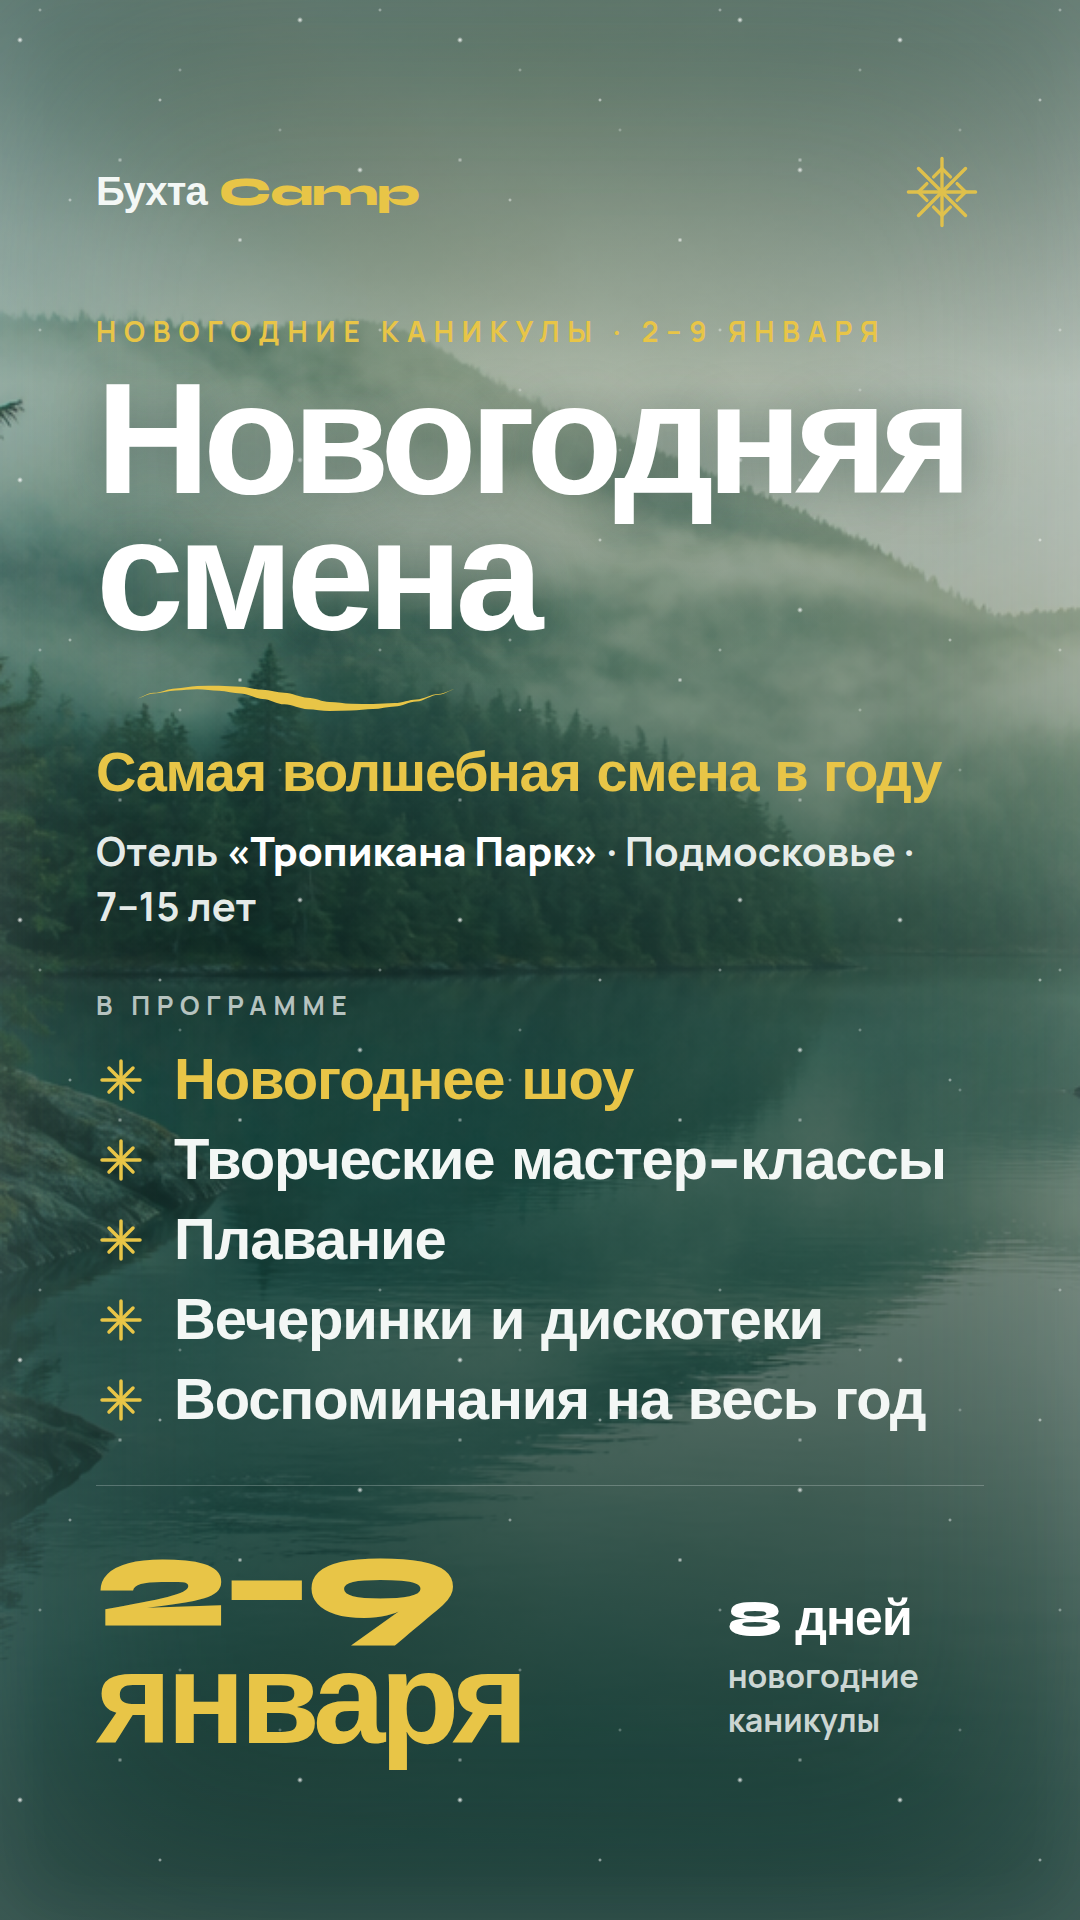
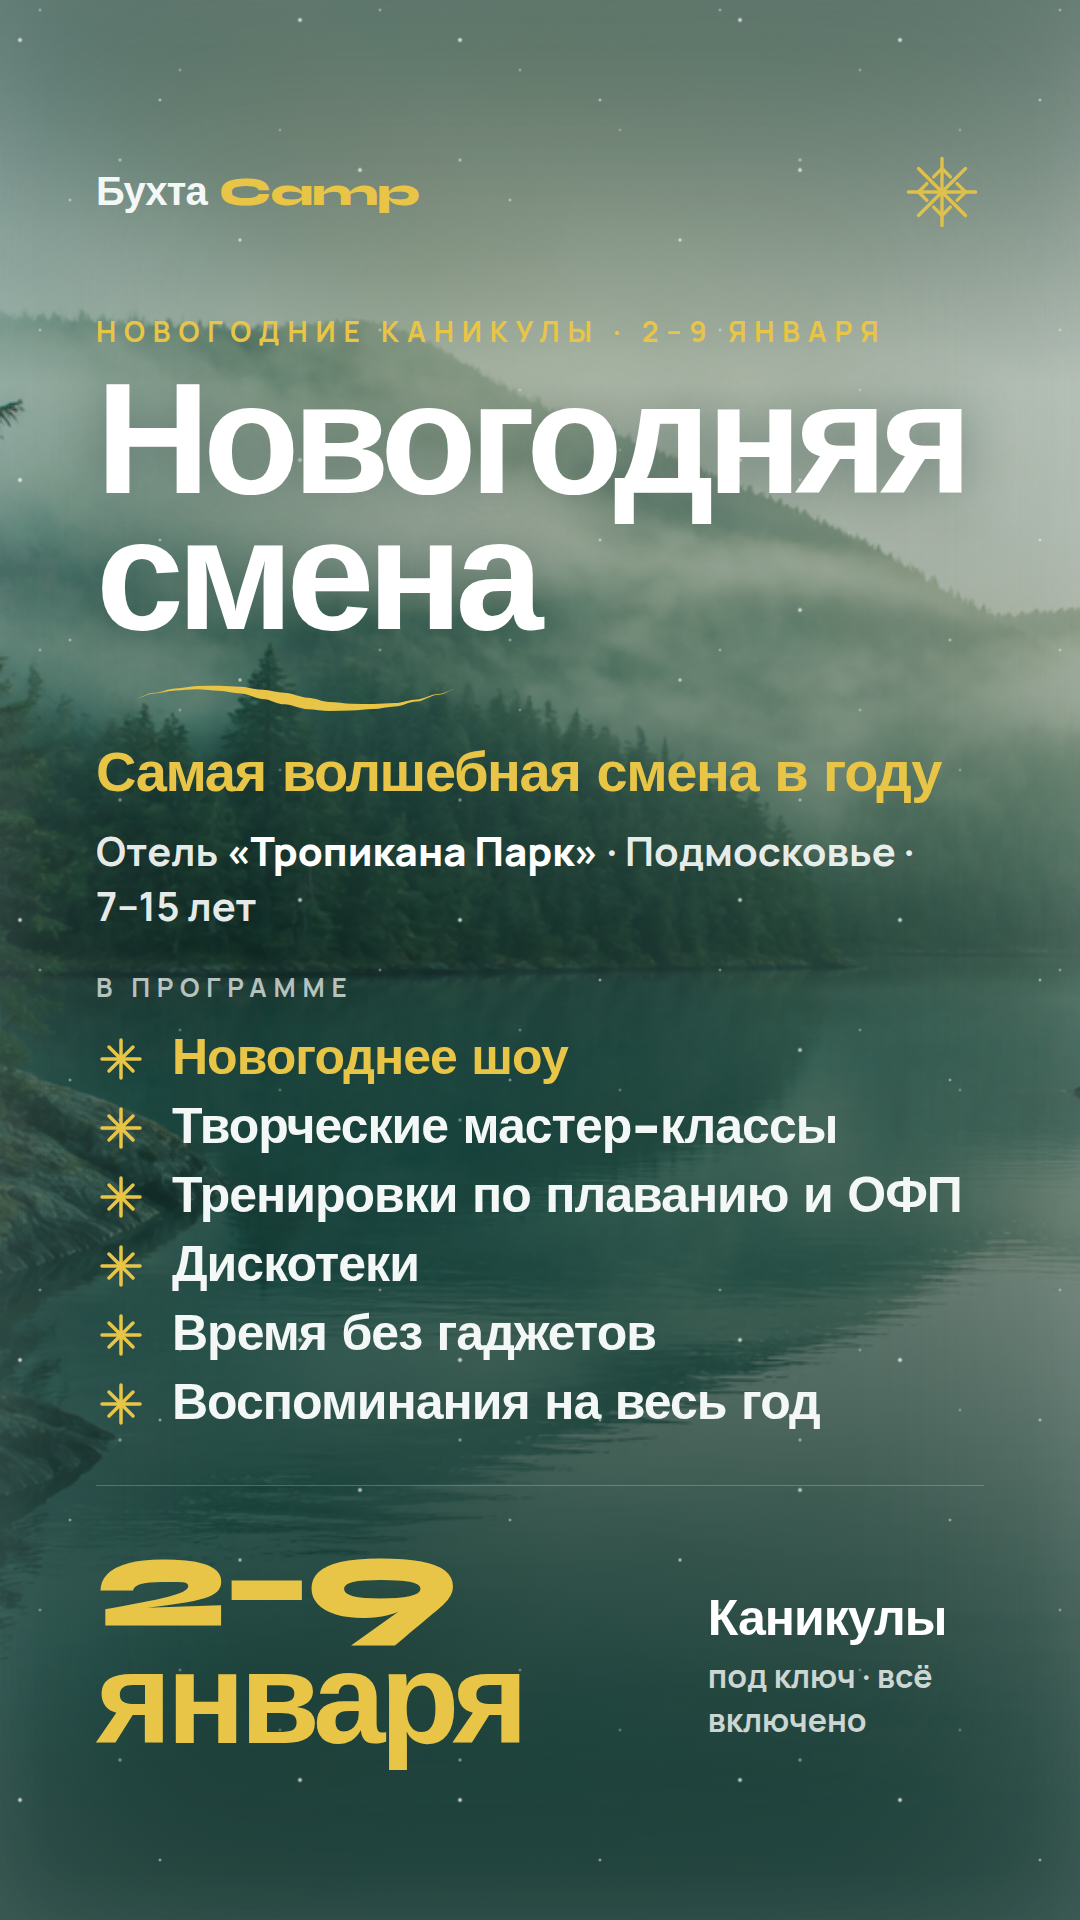
NY afisha: 'каникулы под ключ', swim+OFP training, discos + no-gadgets time

Changed region(s): [[0.0917, 0.5, 0.8861, 0.75], [0.6417, 0.8125, 0.8861, 0.9062]]

diff --git a/assets/instagram/html/afisha-ny-post.html b/assets/instagram/html/afisha-ny-post.html
@@ -135,15 +135,15 @@
       color: rgba(243,247,245,0.72);
       margin-bottom: 22px;
     }
-    .program { display: flex; flex-direction: column; gap: 16px; }
+    .program { display: flex; flex-direction: column; gap: 15px; }
     .pitem {
-      display: flex; align-items: center; gap: 22px;
+      display: flex; align-items: center; gap: 20px;
       font-family: Syne, sans-serif;
       font-weight: 800;
-      font-size: 46px;
+      font-size: 40px;
       letter-spacing: -0.02em;
       color: #f3f7f5;
-      line-height: 1;
+      line-height: 1.02;
     }
     .pitem.star { color: #e8c547; }
     .bullet { width: 40px; height: 40px; flex: none; color: #e8c547; }
@@ -229,11 +229,15 @@
         </div>
         <div class="pitem">
           <span class="bullet"><svg viewBox="0 0 100 100" fill="none"><g stroke="currentColor" stroke-width="7" stroke-linecap="round"><path d="M50 12 V88 M12 50 H88"/><path d="M26 26 L74 74 M74 26 L26 74"/></g></svg></span>
-          Плавание
+          Тренировки по плаванию и ОФП
         </div>
         <div class="pitem">
           <span class="bullet"><svg viewBox="0 0 100 100" fill="none"><g stroke="currentColor" stroke-width="7" stroke-linecap="round"><path d="M50 12 V88 M12 50 H88"/><path d="M26 26 L74 74 M74 26 L26 74"/></g></svg></span>
-          Вечеринки и дискотеки
+          Дискотеки
+        </div>
+        <div class="pitem">
+          <span class="bullet"><svg viewBox="0 0 100 100" fill="none"><g stroke="currentColor" stroke-width="7" stroke-linecap="round"><path d="M50 12 V88 M12 50 H88"/><path d="M26 26 L74 74 M74 26 L26 74"/></g></svg></span>
+          Время без гаджетов
         </div>
         <div class="pitem">
           <span class="bullet"><svg viewBox="0 0 100 100" fill="none"><g stroke="currentColor" stroke-width="7" stroke-linecap="round"><path d="M50 12 V88 M12 50 H88"/><path d="M26 26 L74 74 M74 26 L26 74"/></g></svg></span>
@@ -244,8 +248,8 @@
       <div class="dateblock">
         <div class="date-big">2–9 января</div>
         <div class="date-meta">
-          <div class="d1">8 дней</div>
-          <div class="d2">новогодние каникулы</div>
+          <div class="d1">Каникулы</div>
+          <div class="d2">под ключ · всё включено</div>
         </div>
       </div>
     </div>

diff --git a/assets/instagram/html/afisha-ny-story.html b/assets/instagram/html/afisha-ny-story.html
@@ -133,15 +133,15 @@
       color: rgba(243,247,245,0.72);
       margin-bottom: 28px;
     }
-    .program { display: flex; flex-direction: column; gap: 22px; }
+    .program { display: flex; flex-direction: column; gap: 18px; }
     .pitem {
-      display: flex; align-items: center; gap: 28px;
+      display: flex; align-items: center; gap: 26px;
       font-family: Syne, sans-serif;
       font-weight: 800;
-      font-size: 58px;
+      font-size: 50px;
       letter-spacing: -0.02em;
       color: #f3f7f5;
-      line-height: 1;
+      line-height: 1.02;
     }
     .pitem.star { color: #e8c547; }
     .bullet { width: 50px; height: 50px; flex: none; color: #e8c547; }
@@ -227,11 +227,15 @@
         </div>
         <div class="pitem">
           <span class="bullet"><svg viewBox="0 0 100 100" fill="none"><g stroke="currentColor" stroke-width="7" stroke-linecap="round"><path d="M50 12 V88 M12 50 H88"/><path d="M26 26 L74 74 M74 26 L26 74"/></g></svg></span>
-          Плавание
+          Тренировки по плаванию и ОФП
         </div>
         <div class="pitem">
           <span class="bullet"><svg viewBox="0 0 100 100" fill="none"><g stroke="currentColor" stroke-width="7" stroke-linecap="round"><path d="M50 12 V88 M12 50 H88"/><path d="M26 26 L74 74 M74 26 L26 74"/></g></svg></span>
-          Вечеринки и дискотеки
+          Дискотеки
+        </div>
+        <div class="pitem">
+          <span class="bullet"><svg viewBox="0 0 100 100" fill="none"><g stroke="currentColor" stroke-width="7" stroke-linecap="round"><path d="M50 12 V88 M12 50 H88"/><path d="M26 26 L74 74 M74 26 L26 74"/></g></svg></span>
+          Время без гаджетов
         </div>
         <div class="pitem">
           <span class="bullet"><svg viewBox="0 0 100 100" fill="none"><g stroke="currentColor" stroke-width="7" stroke-linecap="round"><path d="M50 12 V88 M12 50 H88"/><path d="M26 26 L74 74 M74 26 L26 74"/></g></svg></span>
@@ -242,8 +246,8 @@
       <div class="dateblock">
         <div class="date-big">2–9 января</div>
         <div class="date-meta">
-          <div class="d1">8 дней</div>
-          <div class="d2">новогодние каникулы</div>
+          <div class="d1">Каникулы</div>
+          <div class="d2">под ключ · всё включено</div>
         </div>
       </div>
     </div>
